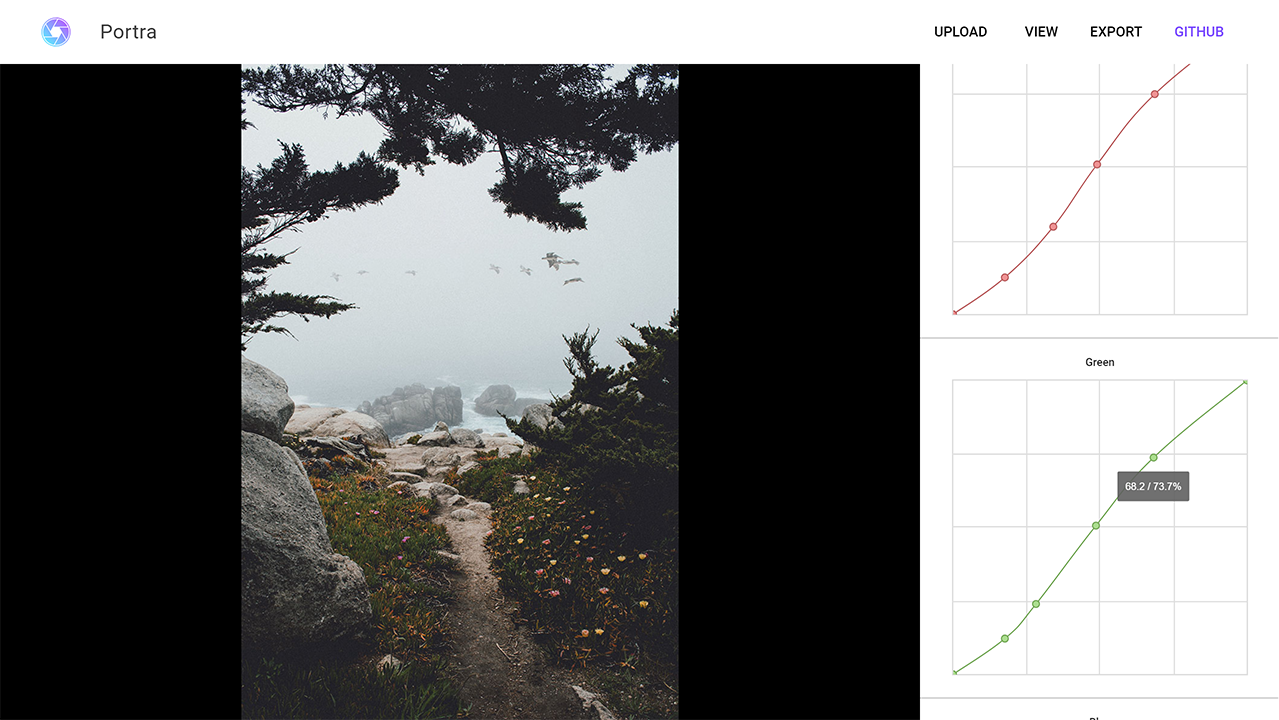
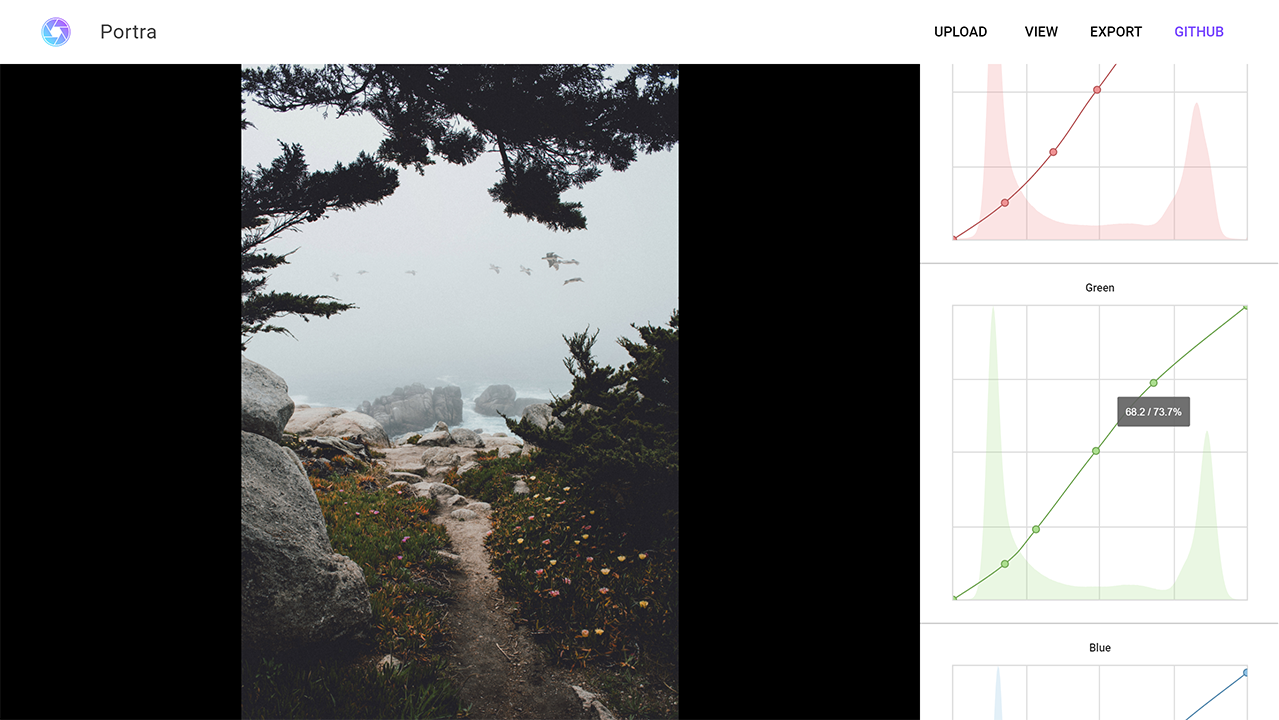
fixed incorrect max value on rgb histogram

diff --git a/portra/templates/base.html b/portra/templates/base.html
@@ -440,7 +440,7 @@
                             <path d="M0 64 255 64" stroke-width="1" stroke="#DDDDDD"></path>
                             <path d="M0 127 255 127" stroke-width="1" stroke="#DDDDDD"></path>
                             <path d="M0 192 255 192" stroke-width="1" stroke="#DDDDDD"></path>
-                            <path id="hist-rgb" class="histogram histogram-rgb"></path>
+                            <path id="tc-hist-rgb" class="histogram histogram-rgb"></path>
 
                             <path id="tc-curve-rgb" class="tonecurve-curve curve-rgb"></path>
                             <g id="tc-crushed-rgb"></g>
@@ -460,7 +460,7 @@
                             <path d="M0 64 255 64" stroke-width="1" stroke="#DDDDDD"></path>
                             <path d="M0 127 255 127" stroke-width="1" stroke="#DDDDDD"></path>
                             <path d="M0 192 255 192" stroke-width="1" stroke="#DDDDDD"></path>
-                            <path id="hist-red" class="histogram histogram-red"></path>
+                            <path id="tc-hist-red" class="histogram histogram-red"></path>
 
                             <path id="tc-curve-red" class="tonecurve-curve curve-red"></path>
                             <g id="tc-crushed-red"></g>
@@ -480,7 +480,7 @@
                             <path d="M0 64 255 64" stroke-width="1" stroke="#DDDDDD"></path>
                             <path d="M0 127 255 127" stroke-width="1" stroke="#DDDDDD"></path>
                             <path d="M0 192 255 192" stroke-width="1" stroke="#DDDDDD"></path>
-                            <path id="hist-green" class="histogram histogram-green"></path>
+                            <path id="tc-hist-green" class="histogram histogram-green"></path>
 
                             <path id="tc-curve-green" class="tonecurve-curve curve-green"></path>
                             <g id="tc-crushed-green"></g>
@@ -500,7 +500,7 @@
                             <path d="M0 64 255 64" stroke-width="1" stroke="#DDDDDD"></path>
                             <path d="M0 127 255 127" stroke-width="1" stroke="#DDDDDD"></path>
                             <path d="M0 192 255 192" stroke-width="1" stroke="#DDDDDD"></path>
-                            <path id="hist-blue" class="histogram histogram-blue"></path>
+                            <path id="tc-hist-blue" class="histogram histogram-blue"></path>
 
                             <path id="tc-curve-blue" class="tonecurve-curve curve-blue"></path>
                             <g id="tc-crushed-blue"></g>
@@ -1184,7 +1184,7 @@
         }
     }
     function draw_histogram(points, channel) {
-        var elem = document.getElementById('hist-' + channel);
+        var elem = document.getElementById('tc-hist-' + channel);
         var d = 'M0 255 ';
         for (var i = 0; i < points.length; i++) {
             d += `${i} ${points[i]} `;

diff --git a/portra/utils.py b/portra/utils.py
@@ -107,12 +107,11 @@ def img_histogram(file):
     blue_histogram = histogram[512:768]
     blue_max = max(blue_histogram)
 
-    rgb_max = red_max + green_max + blue_max
+    rgb_histogram = []
+    for i in range(256):
+        rgb_histogram.append(red_histogram[i] + green_histogram[i] + blue_histogram[i])
 
-    histogram_rgb = []
-    histogram_red = []
-    histogram_green = []
-    histogram_blue = []
+    rgb_max = max(rgb_histogram)
 
     for i in range(256):
         r = red_histogram[i]
@@ -120,12 +119,12 @@ def img_histogram(file):
         b = blue_histogram[i]
         rgb = r + g + b
 
-        histogram_rgb.append(round(255 - (rgb * 255 / rgb_max), 2))
-        histogram_red.append(round(255 - (r * 255 / red_max), 2))
-        histogram_green.append(round(255 - (g * 255 / green_max), 2))
-        histogram_blue.append(round(255 - (b * 255 / blue_max), 2))
+        rgb_histogram[i] = round(255 - (rgb * 255 / rgb_max), 2)
+        red_histogram[i] = round(255 - (r * 255 / red_max), 2)
+        green_histogram[i] = round(255 - (g * 255 / green_max), 2)
+        blue_histogram[i] = round(255 - (b * 255 / blue_max), 2)
 
-    return histogram_rgb, histogram_red, histogram_green, histogram_blue
+    return rgb_histogram, red_histogram, green_histogram, blue_histogram
 
 def get_file_size(file):
     """
